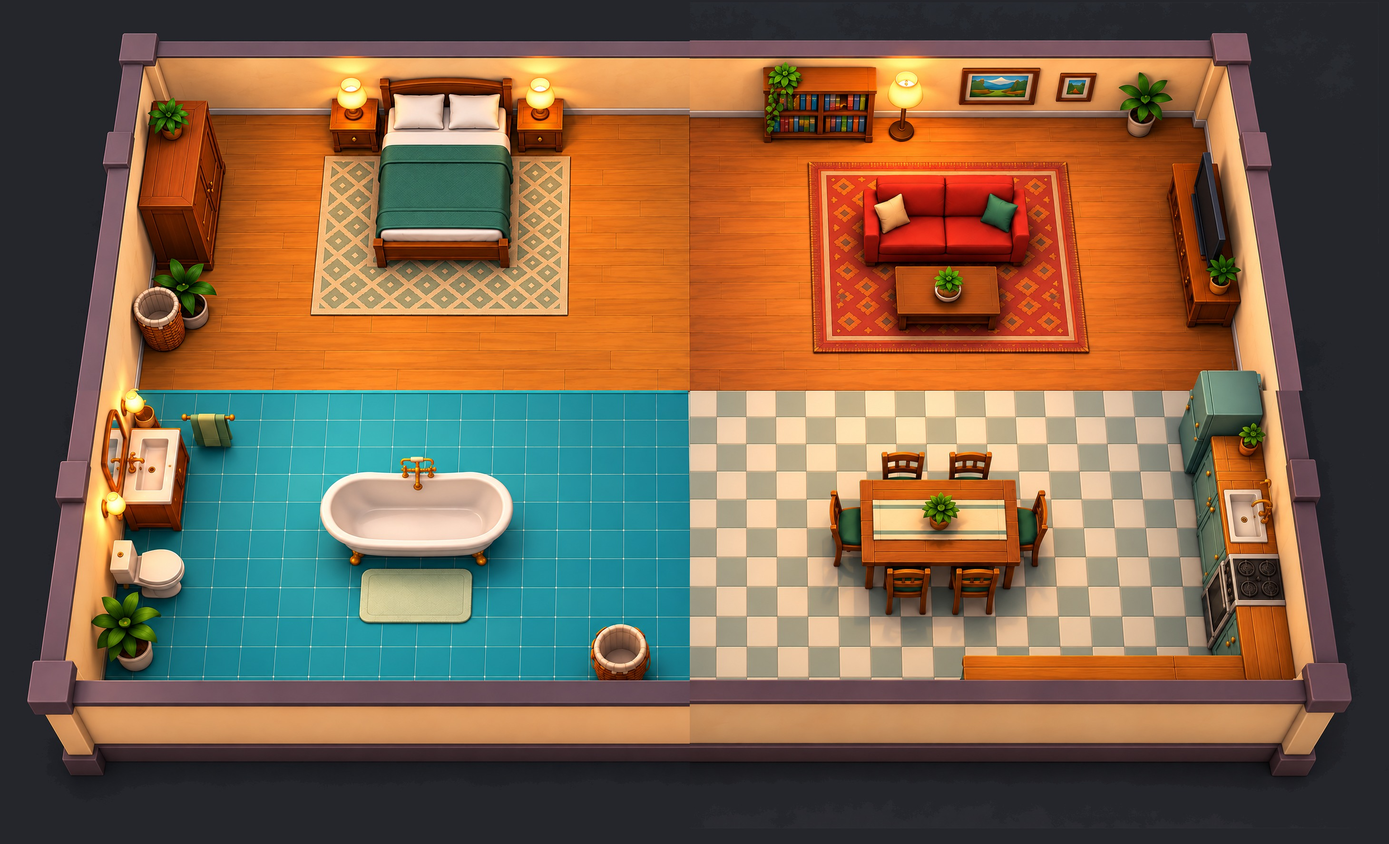
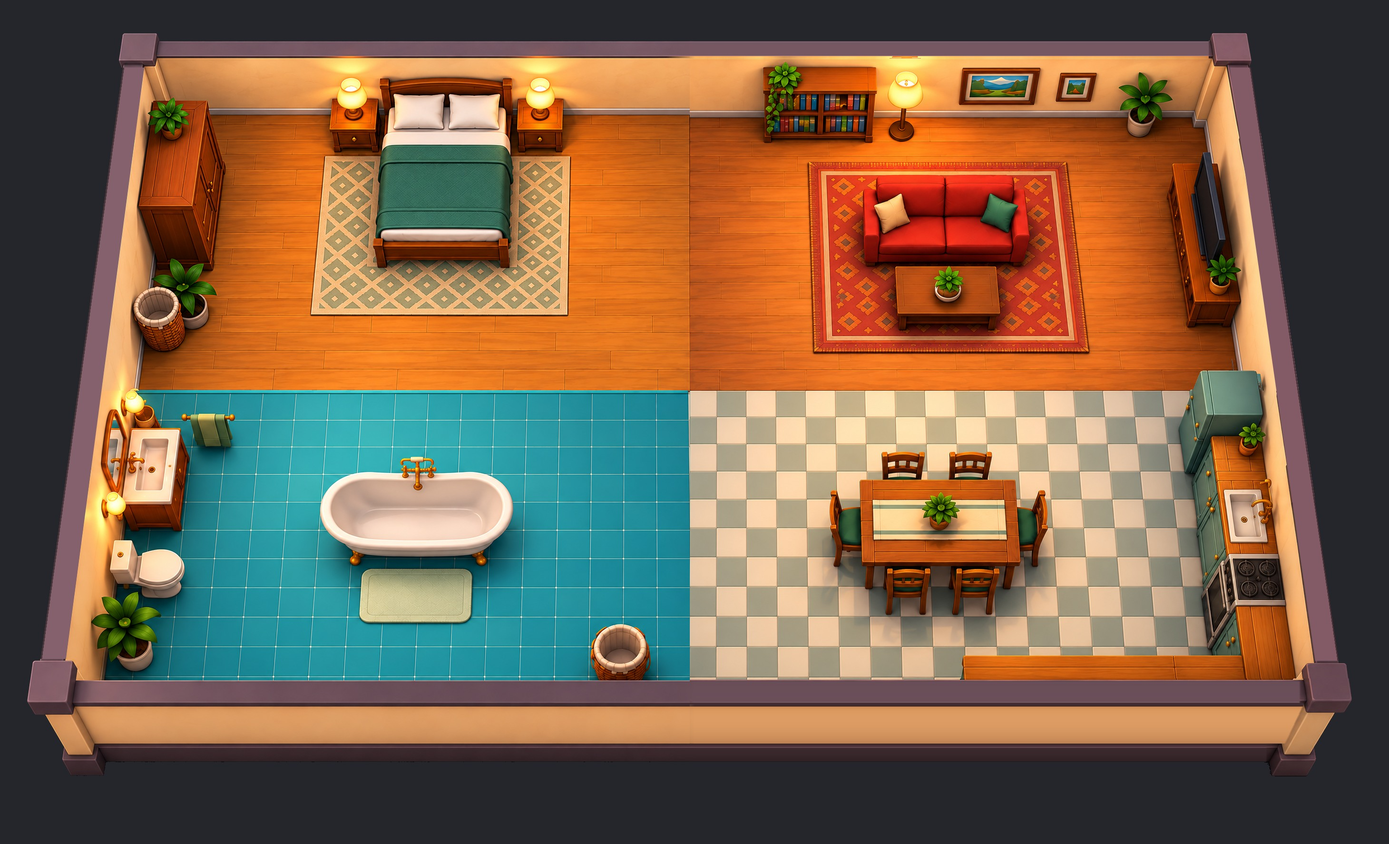
Painted house: clean outer walls, collision cut to the painting
- Painting: the outer walls are redrawn straight and one colour per wall where
  the 4 room paintings met (side-wall jogs, mid-wall posts, two-tone top and
  front walls); the background is one flat colour (art/house/stitch/CleanWalls.cs).
- Outer-wall collision follows the painted floor edges (back z -6.8, front 6.85,
  sides +-12.45): vacuums no longer drive up the back wall or out of sight
  behind the front wall.
- Furniture is cut per piece: sofa, coffee table, dining table and each chair.
  Round pieces (bathtub, baskets, plants) collide as ovals (sim, bot, fairness check).
- Fairness split 1.04% (was 1.3%). docs/maps/overlay-collision.mjs draws the
  collision over the painting.

diff --git a/client/sim.js b/client/sim.js
@@ -45,13 +45,21 @@ export function rectOf(f) {   // furniture footprint in world coords, accounting
   return { x0: f.x - w / 2, z0: f.z - d / 2, x1: f.x + w / 2, z1: f.z + d / 2 };
 }
 
+// a blocker is a box, or an oval (round furniture: bathtub, baskets, plants) filling its box
+export function blockerOf(f) { return { ...rectOf(f), oval: f.shape === 'oval' }; }
+export function insideBlocker(b, x, z, pad = 0) {
+  if (!b.oval) return x > b.x0 - pad && x < b.x1 + pad && z > b.z0 - pad && z < b.z1 + pad;
+  const a = (b.x1 - b.x0) / 2 + pad, c = (b.z1 - b.z0) / 2 + pad, dx = x - (b.x0 + b.x1) / 2, dz = z - (b.z0 + b.z1) / 2;
+  return dx * dx / (a * a) + dz * dz / (c * c) < 1;
+}
+
 export function makeInput() { return { ix: 0, iz: 0, toggle: false, use: false }; }
 
 export function createSim(layout, opts = {}) {
   const random = opts.random || Math.random;
   const MAP_W = layout.size.w, MAP_H = layout.size.h;
   const GW = Math.round(MAP_W / C.CELL), GH = Math.round(MAP_H / C.CELL);
-  const blockers = [...layout.walls, ...layout.furniture.filter(f => f.blocks !== false).map(rectOf)];
+  const blockers = [...layout.walls, ...layout.furniture.filter(f => f.blocks !== false).map(blockerOf)];
   const grid = new Uint8Array(GW * GH);
   const events = [];
   const emit = e => events.push(e);
@@ -63,7 +71,7 @@ export function createSim(layout, opts = {}) {
     for (let cz = 0; cz < GH; cz++) for (let cx = 0; cx < GW; cx++) {
       const x = -MAP_W / 2 + (cx + 0.5) * C.CELL, z = -MAP_H / 2 + (cz + 0.5) * C.CELL;
       let blocked = false;
-      for (const r of blockers) if (x > r.x0 && x < r.x1 && z > r.z0 && z < r.z1) { blocked = true; break; }
+      for (const r of blockers) if (insideBlocker(r, x, z)) { blocked = true; break; }
       grid[cz * GW + cx] = blocked ? BLOCKED : 0;
       if (!blocked) totalCells++;
     }
@@ -141,6 +149,13 @@ export function createSim(layout, opts = {}) {
     const r = C.VAC_R;
     for (let pass = 0; pass < 2; pass++) {
       for (const b of blockers) {
+        if (b.oval) {   // push out to the oval grown by the vacuum's radius (radially: close enough for round furniture)
+          const a = (b.x1 - b.x0) / 2 + r, c = (b.z1 - b.z0) / 2 + r, ox = (b.x0 + b.x1) / 2, oz = (b.z0 + b.z1) / 2;
+          let dx = v.x - ox, dz = v.z - oz; const k = dx * dx / (a * a) + dz * dz / (c * c);
+          if (k >= 1) continue;
+          if (k < 1e-9) { dx = 0; dz = c; } else { const s = 1 / Math.sqrt(k); dx *= s; dz *= s; }
+          v.x = ox + dx; v.z = oz + dz; continue;
+        }
         const cx = Math.max(b.x0, Math.min(v.x, b.x1)), cz = Math.max(b.z0, Math.min(v.z, b.z1));
         let dx = v.x - cx, dz = v.z - cz;
         const d2 = dx * dx + dz * dz;

diff --git a/client/bot.js b/client/bot.js
@@ -1,6 +1,6 @@
 // Dust Duel — computer opponent. Reads the sim state, returns an input like a player would.
 // Navigation: BFS on a coarse grid (0.5 units) built from the same blockers as the sim.
-import { C, BLOCKED, makeInput } from './sim.js';
+import { C, BLOCKED, makeInput, insideBlocker } from './sim.js';
 
 const NAV = 0.5;
 
@@ -14,7 +14,7 @@ export function createBot(sim, idx, opts = {}) {
   for (let nz = 0; nz < NH; nz++) for (let nx = 0; nx < NW; nx++) {
     const x = -MAP_W / 2 + (nx + 0.5) * NAV, z = -MAP_H / 2 + (nz + 0.5) * NAV;
     let ok = x > -MAP_W / 2 + pad && x < MAP_W / 2 - pad && z > -MAP_H / 2 + pad && z < MAP_H / 2 - pad;
-    for (const b of blockers) if (ok && x > b.x0 - pad && x < b.x1 + pad && z > b.z0 - pad && z < b.z1 + pad) ok = false;
+    for (const b of blockers) if (ok && insideBlocker(b, x, z, pad)) ok = false;
     pass[nz * NW + nx] = ok ? 1 : 0;
   }
   const navOf = (x, z) => [Math.max(0, Math.min(NW - 1, Math.floor((x + MAP_W / 2) / NAV))), Math.max(0, Math.min(NH - 1, Math.floor((z + MAP_H / 2) / NAV)))];

diff --git a/README.md b/README.md
@@ -83,7 +83,14 @@ draws it as a fixed backdrop and puts only what moves or changes on top. Design:
   the height of everything painted on a piece), so grime, vacuums and inner walls behind them are hidden.
 - **Inner walls** are 3D, 1.88 m tall like the painted walls, with Codex's texture. Outer walls are painted.
 - **Rooms:** house v2 (26 × 16): bedroom, living room, kitchen, bathroom, 4 doorways. Furniture collision is
-  measured on the painting (`docs/maps/build-painted-layout.mjs`).
+  measured on the painting (`docs/maps/build-painted-layout.mjs`), one piece per thing (sofa, coffee table, dining
+  table, each chair); round pieces (bathtub, baskets, plants) collide as ovals.
+- **Outer walls' collision follows the painted floor edges**, not the 26 × 16 box: back z −6.8, front 6.85
+  (where the front wall's cap hides the floor), sides ±12.45. The painting isn't a true perspective view, so the
+  camera can't match its walls; the edges are measured on the painting instead. Check it with
+  `node docs/maps/overlay-collision.mjs <out.png>` (collision drawn over the painting).
+- **Outer walls in the painting** were redrawn straight and one colour per wall (the 4 rooms disagreed at the
+  seams) and the background made flat: `art/house/stitch/CleanWalls.cs` (house-4rooms.png → `client/assets/house.jpg`).
 - **Docks** stand on the inner wall facing south (Blue in the bathroom, Orange in the kitchen): floor right north of a
   wall is hidden from the camera, so docks can't go there. Placed by sweeping positions for the fairest split:
   **1.3%** (Blue 139.0 m² vs Orange 135.5 m²).

diff --git a/docs/painted-house-design.md b/docs/painted-house-design.md
@@ -7,6 +7,12 @@
   the inner wall facing south: Blue in the bathroom (−0.7, 0.7), Orange in the kitchen (4.5, 0.7). Fairness split 1.3%.
 - **No grime at all (boss, after the build):** the floor layer shows only the trails (owner's tint at 55% over the
   painting); dump and spill erase the other player's trail. Section 5's grime film is gone.
+- **Trail outline: DROPPED by the boss ("remove outline"), never built.** Trails stay the plain 55% tint. The design
+  is kept for reference (mockup `art/house/DESIGN_TRAIL_OUTLINE.png`): without grime,
+  trails are faint where the colour matches the floor. Keep the 55% tint and add, per player, a 7 cm bright edge (a
+  light, slightly more saturated version of the player colour, 92% opacity) plus a 2 px charcoal keyline outside it
+  (variant B; Codex agrees). Where Blue meets Orange: both bright edges, one shared dark separator. Built in the floor
+  shader (a trail pixel next to a pixel of another owner is edge), so it follows clean, steal, dump and spill.
 - **Grime (superseded):** none under walls (from the camera those cells line up with the painted walls and what hangs on them);
   occluders are oval for the bathtub, baskets and plants, and as tall as what is painted on a piece (lamps, the TV).
 - **Background:** the painting's charcoal outside the house was flattened to one colour (the 4 rooms differed by ~3
